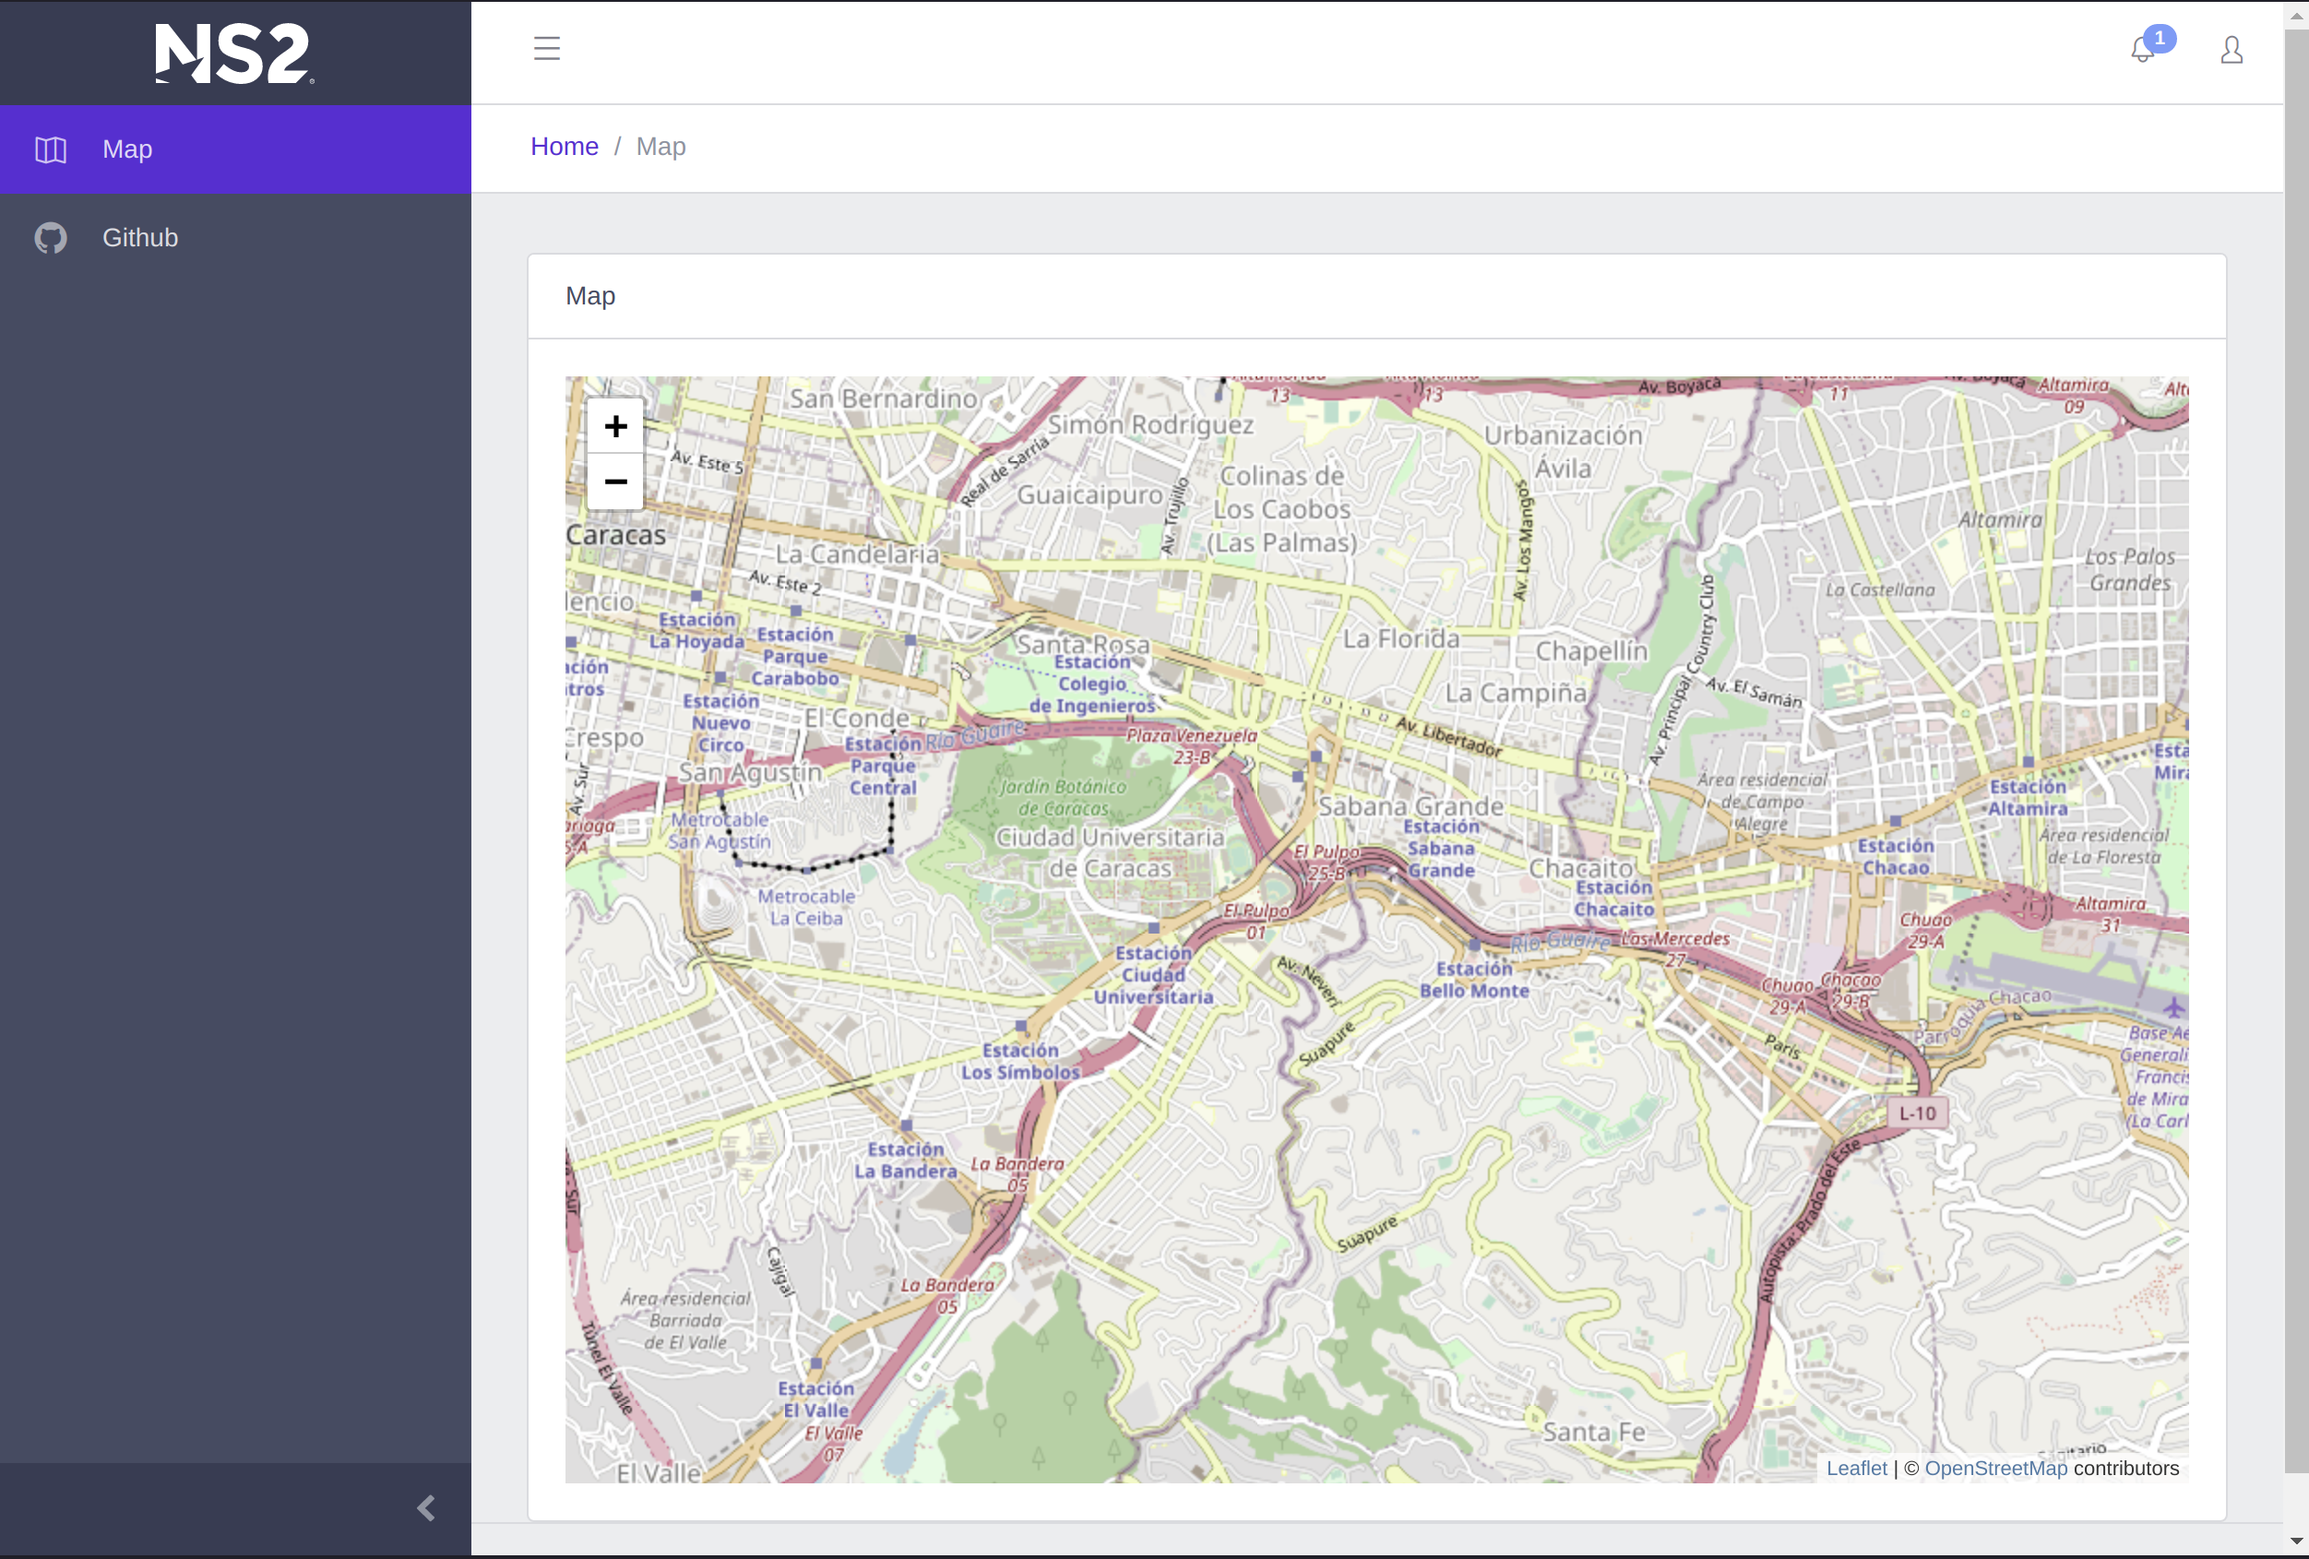
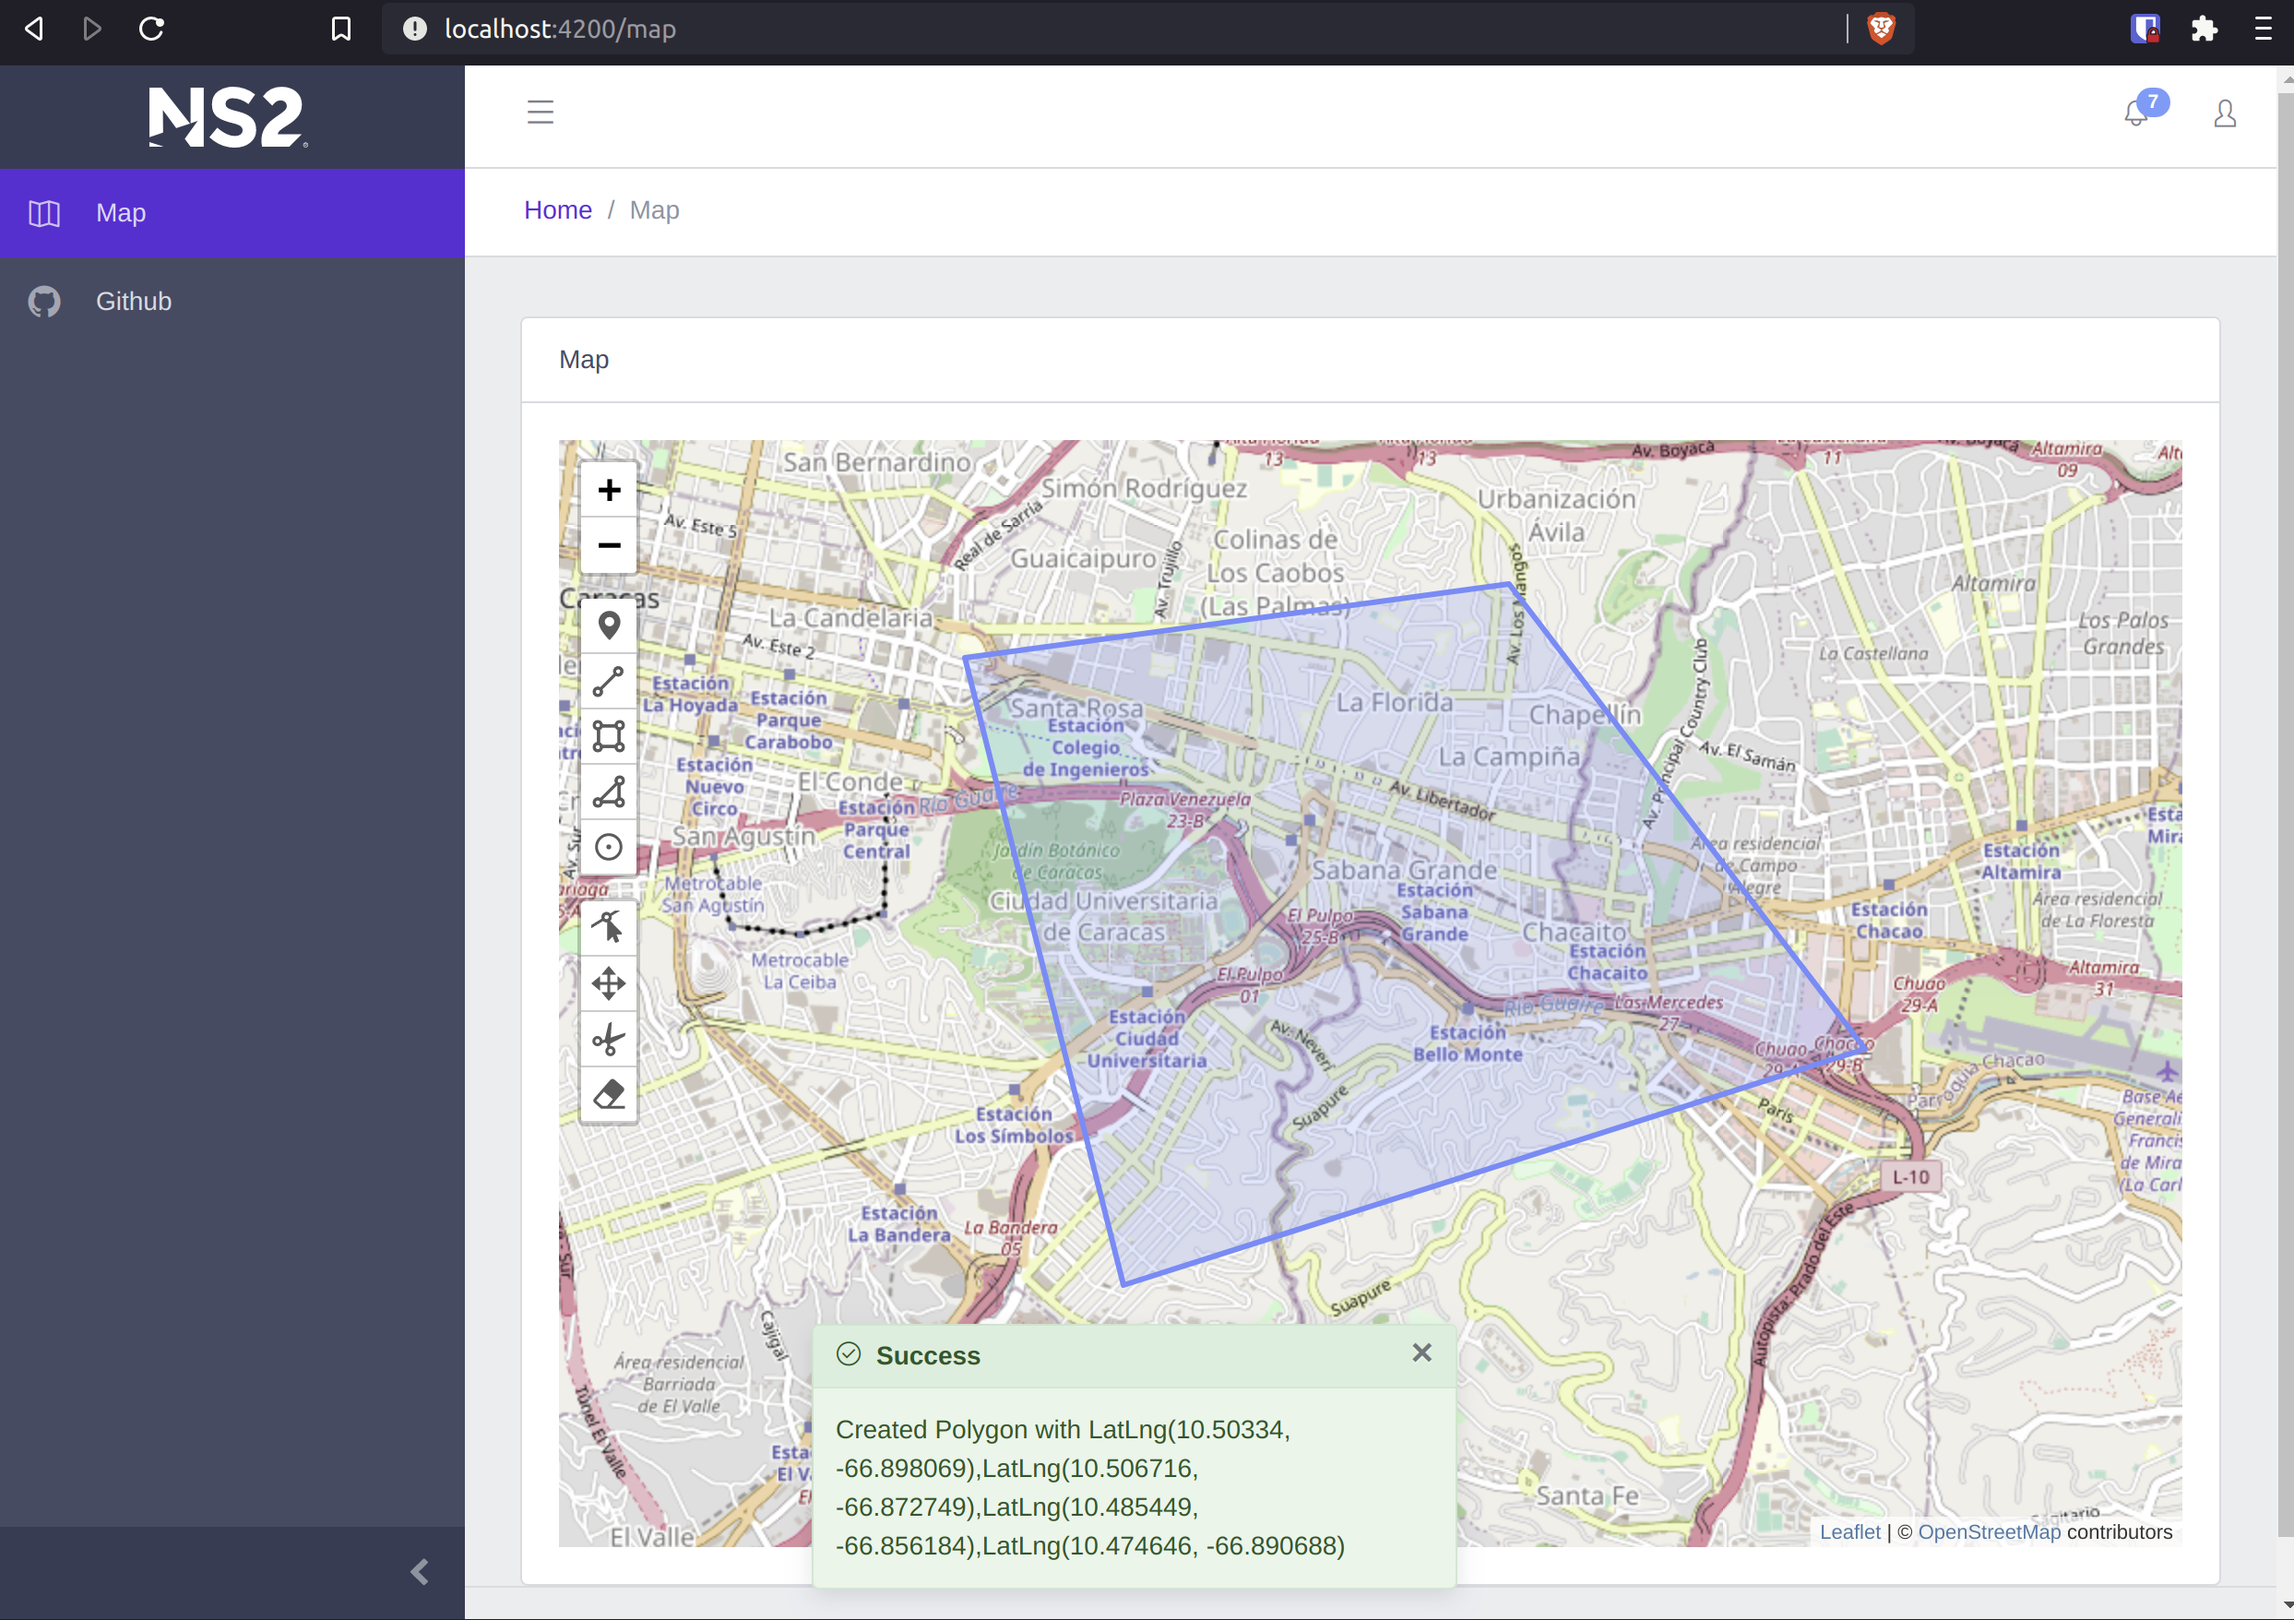
integrate geoman with vueleaflet and show callback

diff --git a/src/components/Map.vue b/src/components/Map.vue
@@ -3,7 +3,13 @@
     <div class="card">
       <div class="card-header">Map</div>
       <div class="card-body">
-        <l-map class="app-map" :zoom="zoom" :center="center">
+        <l-map
+          ref="map"
+          @ready="onMapReady"
+          class="app-map"
+          :zoom="zoom"
+          :center="center"
+        >
           <l-tile-layer :url="url" :attribution="attribution" />
         </l-map>
       </div>
@@ -15,6 +21,9 @@
 import { latLng } from 'leaflet'
 import { LMap, LTileLayer } from 'vue2-leaflet'
 import msgMixin from '../mixins/msg-mixin'
+import '@geoman-io/leaflet-geoman-free'
+import 'leaflet/dist/leaflet.css'
+import '@geoman-io/leaflet-geoman-free/dist/leaflet-geoman.css'
 
 export default {
   name: 'AppMap',
@@ -28,12 +37,21 @@ export default {
       zoom: 14,
       center: latLng(10.48801, -66.87919),
       url: 'https://{s}.tile.openstreetmap.org/{z}/{x}/{y}.png',
-      attribution:
-        '&copy; <a href="http://osm.org/copyright">OpenStreetMap</a> contributors'
+      attribution: '&copy; <a href="http://osm.org/copyright">OpenStreetMap</a> contributors'
     }
   },
-  created() {
-      this.successMsg('Loaded map')
+  methods: {
+    onMapReady() {
+      this.map = this.$refs.map.mapObject
+      this.map.pm.addControls({
+        position: 'topleft',
+        drawCircle: false
+      })
+      this.map.on('pm:create', ({shape, layer}) => {
+        this.successMsg(`Created ${shape} with ${layer._latlngs}`)
+        console.log(layer)
+      })
+    }
   }
 }
 </script>

diff --git a/src/App.vue b/src/App.vue
@@ -42,5 +42,4 @@ export default {
 @import '~@coreui/coreui/dist/css/coreui.min.css';
 @import '~@coreui/icons/css/all.min.css';
 @import '~bootstrap-vue/dist/bootstrap-vue.css';
-@import '~leaflet/dist/leaflet.css';
 </style>
